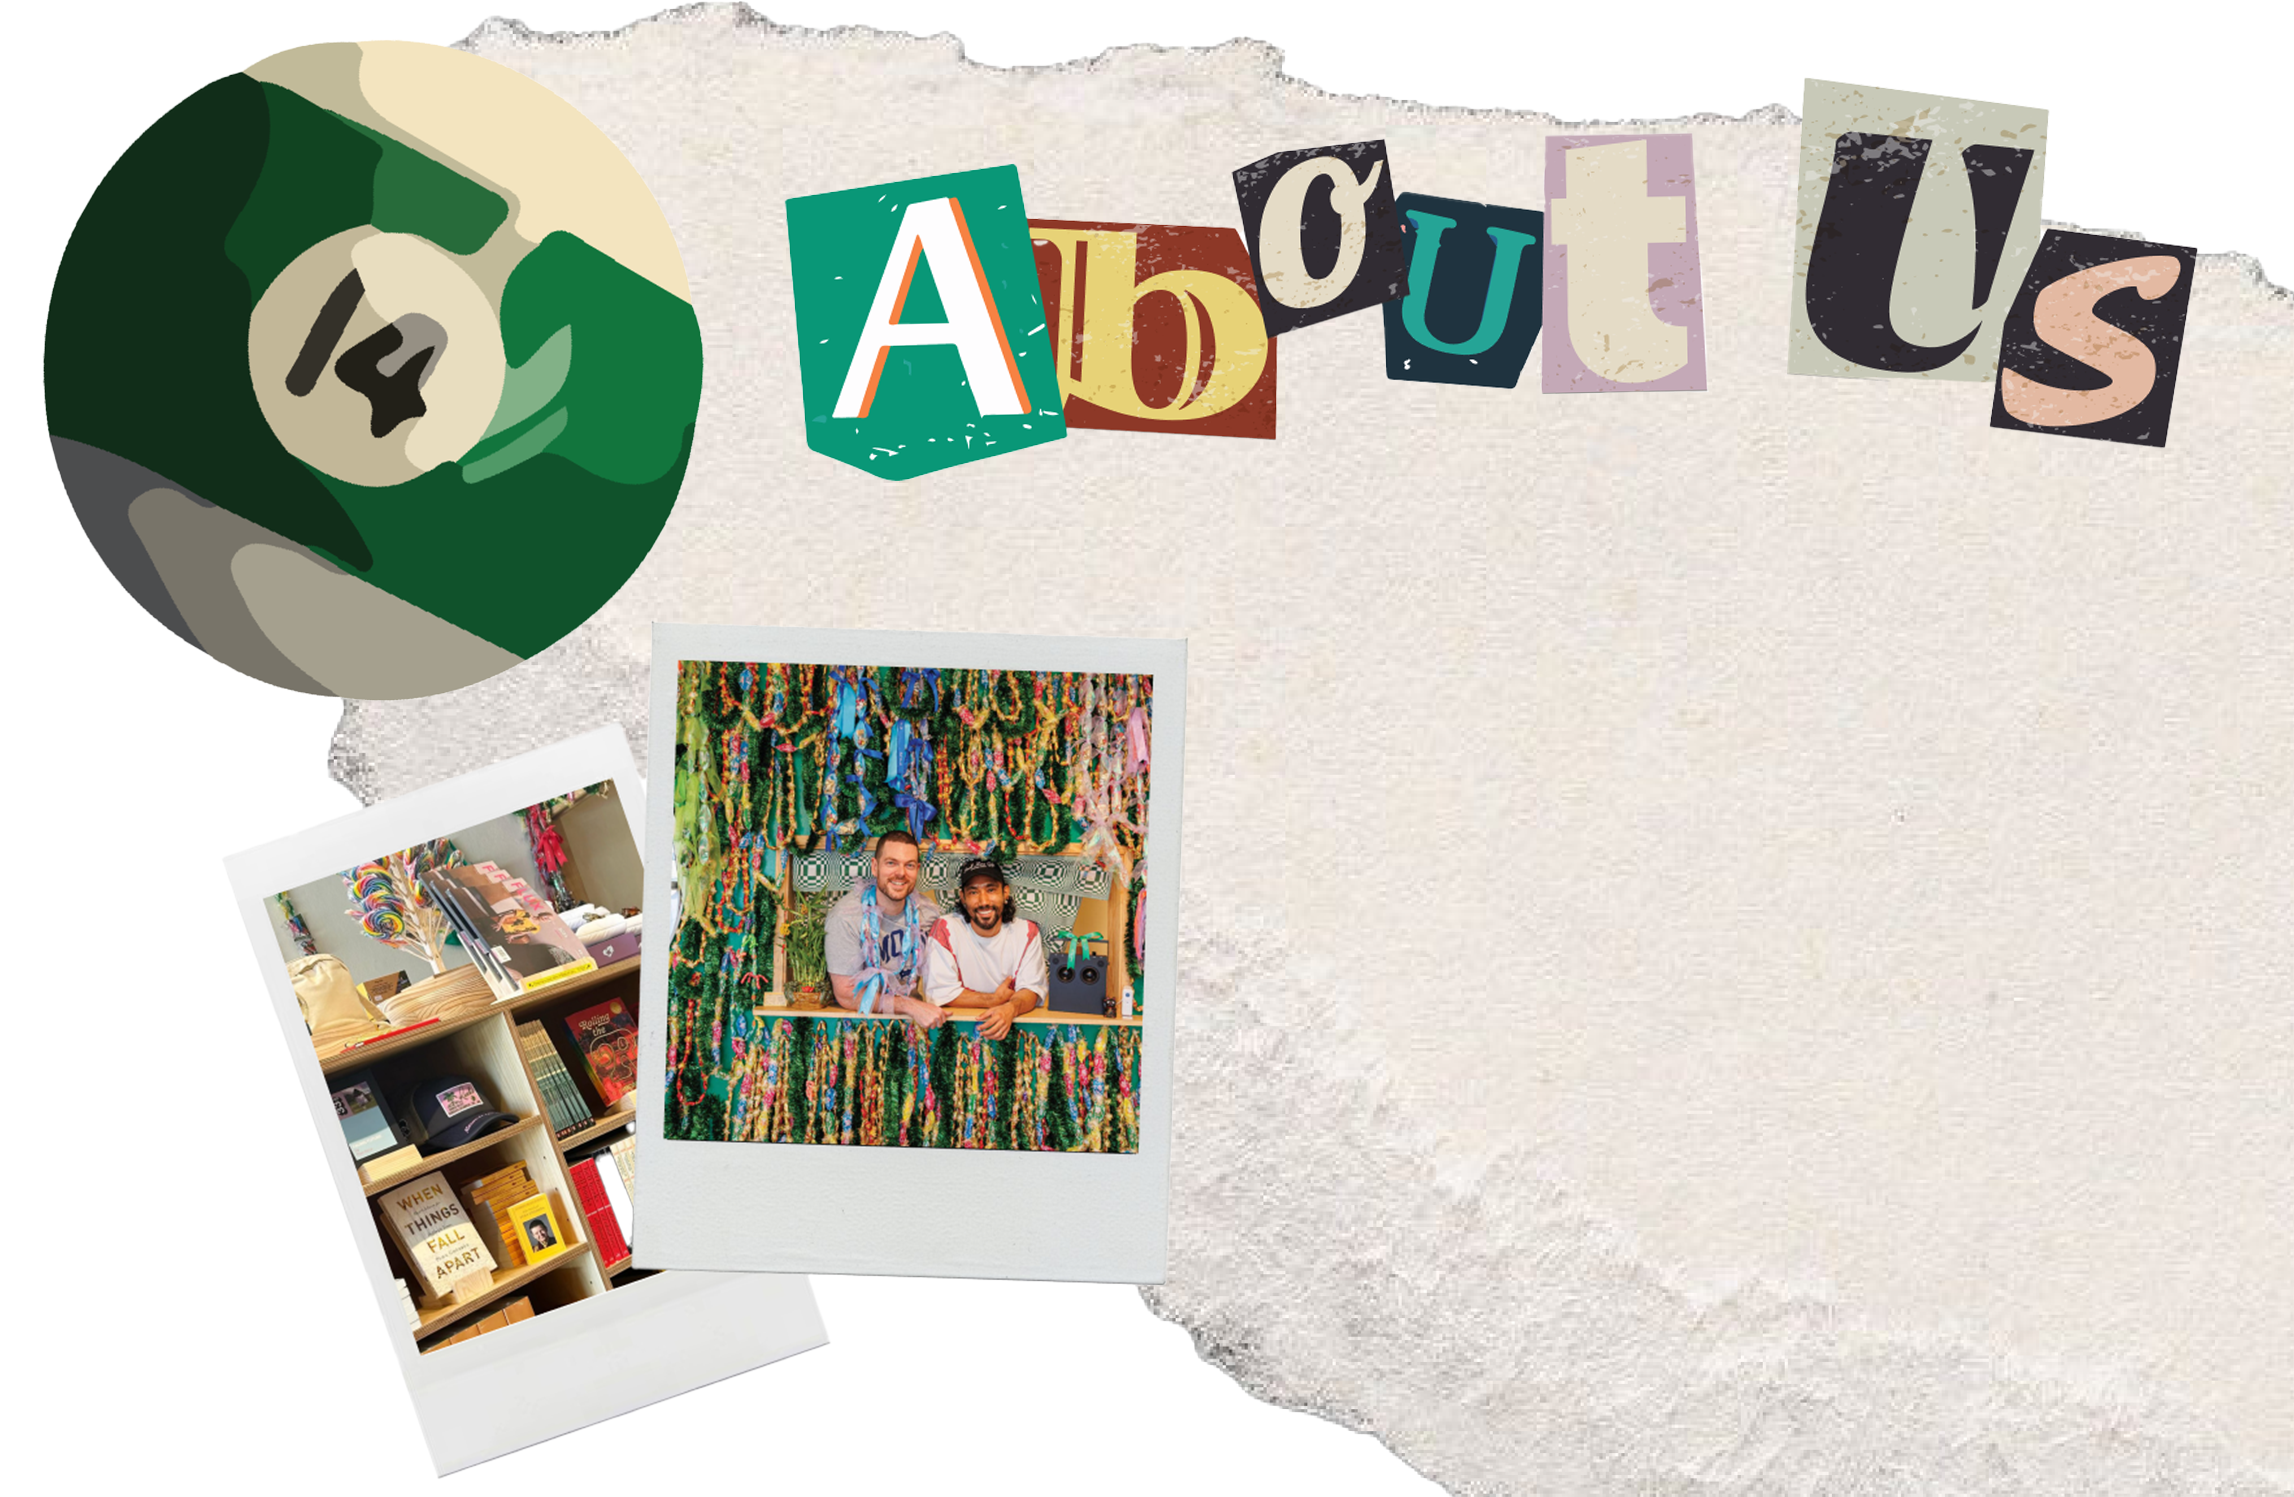
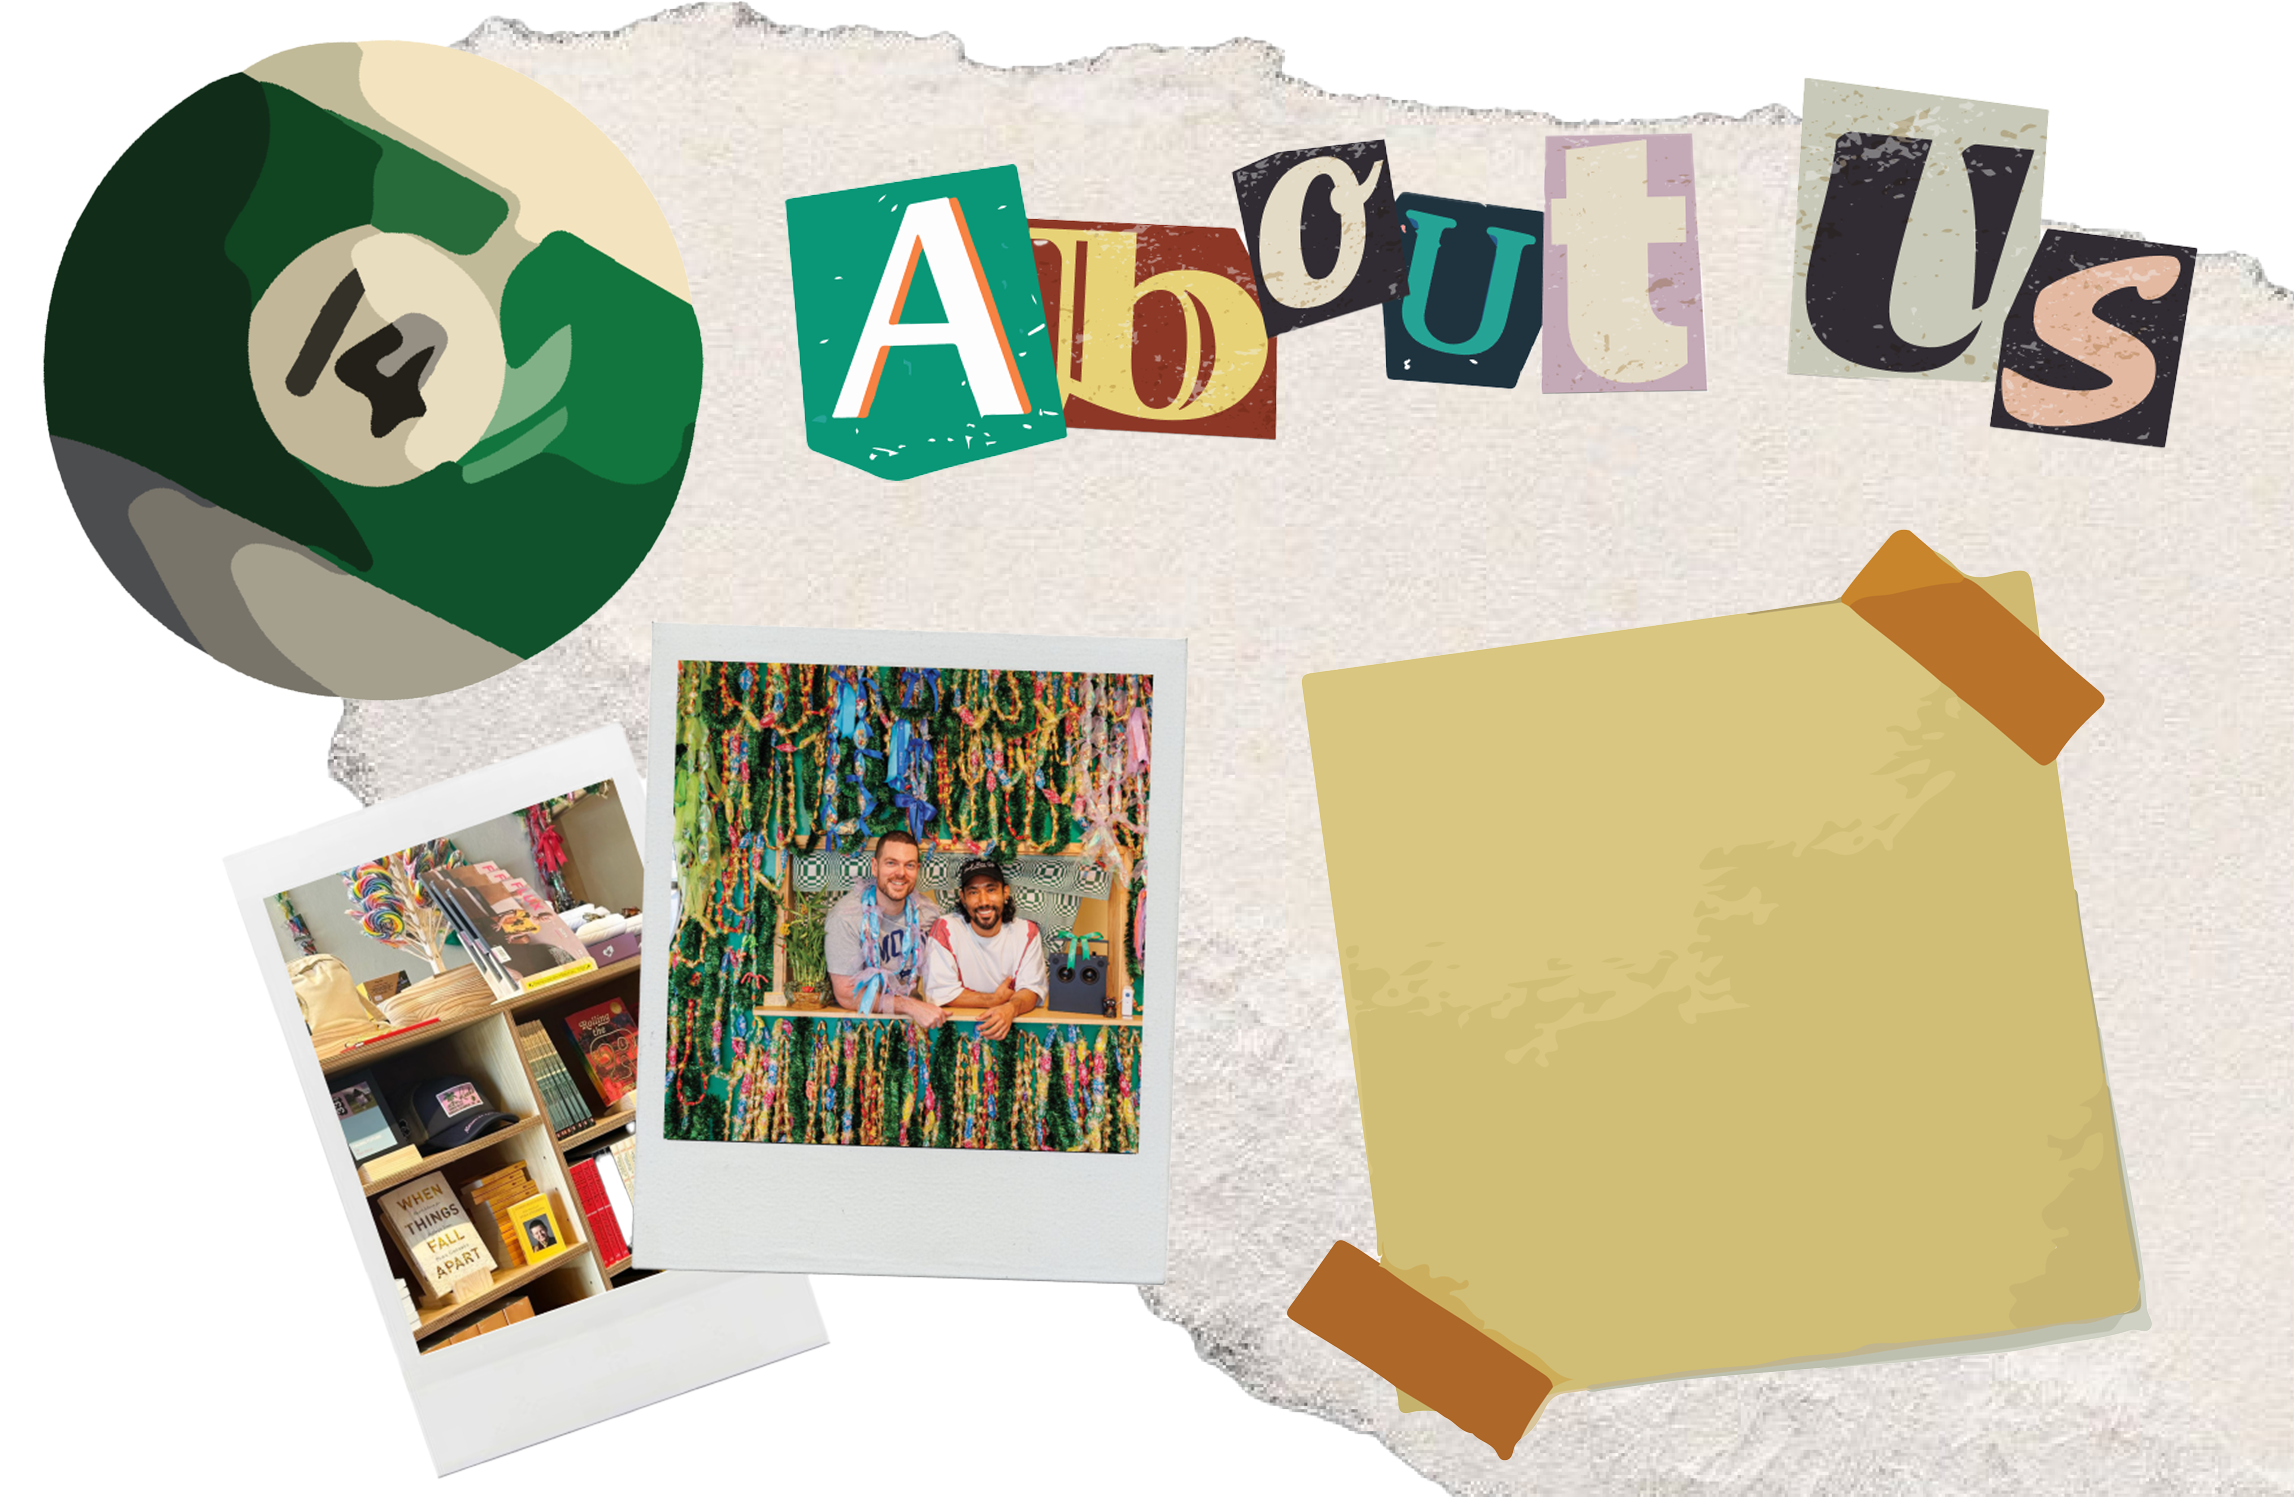
lotsa edits (not rlly)

Changed region(s): [[0.5571, 0.338, 0.9595, 0.9833]]

diff --git a/index.html b/index.html
@@ -33,35 +33,81 @@
     <main>
     
         <section class="main" id="section1">
-            <div class="container">
+            <div>
                 <img class="img-center" src="img/main-hero-img.png" alt="main-img" width="700" height="700">
             </div>
         </section>
                     
         <section class="about" id="section2">
-            <div class="container">
+            <div>
                 <img class="img-right" src="img/paper-about.png" alt="about content" width="1200" height="950">
-                <div class="textbox-right">
-                    <img class="img-right" src="img/stickynote.png" alt="stickynote text" width="400" height="400">
-                    <p class="about-text">Lorem ipsum, dolor sit amet consectetur adipisicing elit. Assumenda, sapiente.</p>
-                </div>
             </div>
         </section>
     
     
         <section class="merch" id="section3">
             <div class="container">
-                <img class="img-center" src="img/heading-merch.png" alt="heading-merch" width="600" height="150">
-                <img class="img-right" src="img/merch1.png" alt="merch1" width="350" height="350">
-                <img class="img-right" src="img/merch2.png" alt="merch2" width="350" height="350">
-                <img class="img-right" src="img/merch3.png" alt="merch3" width="380" height="380">
-                <img class="img-right" src="img/merch4.png" alt="merch4" width="350" height="350">
-                <img class="img-right" src="img/merch5.png" alt="merch5" width="390" height="390">
+                <img class="img-center head-merch" src="img/heading-merch.png" alt="heading-merch" width="600" height="150">
+                <div class="row demo">
+                    <img class="col-2 push-9" src="img/hat1.png" alt="merch1" width="300" height="300">
+                </div>
+                <div class="row demo">
+                    <img class="col-3 push-3" src="img/shirt1.png" alt="merch2" width="350" height="350">
+                </div>
+                <div class="row demo">
+                    <img class="col-3 push-9" src="img/bag1.png" alt="merch2" width="350" height="350">
+                </div>
+                <div class="row demo">
+                    <img class="col-3 push-3" src="img/hat2.png" alt="merch2" width="300" height="300">
+                </div>
+                <div class="row demo">
+                    <img class="col-3 push-9" src="img/shirt2.png" alt="merch2" width="300" height="300">
+                </div>
+                <div class="row demo">
+                    <img class="col-3 push-3" src="img/tote2.png" alt="merch2" width="300" height="300">
+                </div>
+                <div class="row demo">
+                    <img class="col-3 push-9" src="img/hat3.png" alt="merch2" width="300" height="300">
+                </div>
+                <div class="row centered demo">
+                    <img class="two-thirds centered" src="img/hat4.png" alt="merch2" width="300" height="300">
+                </div>
             </div>
         </section>
     
         <section class="what" id="section4">
-            <img class="head-what" src="img/@&_.png" alt="@&?" width="750" height="750">
+            <img class="img-center head-what" src="img/@&_.png" alt="@&?" width="750" height="750">
+            <div class="polaroid container">
+                <figure id="kewpie">
+                    <div class="card">
+                        <img src="img/pol-1.png" alt="polaroid" width="250" height="250">
+                        <figcaption>hello</figcaption>
+                    </div>
+                </figure>
+                <figure id="lei">
+                    <div class="card">
+                        <img src="img/pol-2.png" alt="polaroid" width="250" height="250">
+                        <figcaption>hello</figcaption>
+                    </div>
+                </figure>
+                <figure id="board">
+                    <div class="card">
+                        <img src="img/pol-3.png" alt="polaroid" width="250" height="250">
+                        <figcaption>hello</figcaption>
+                    </div>
+                </figure>
+                <figure id="bag">
+                    <div class="card">
+                        <img src="img/pol-4.png" alt="polaroid" width="250" height="250">
+                        <figcaption>hello</figcaption>
+                    </div>
+                </figure>  
+            </div>
+            <img class="img-center" src="img/follow-us.png" alt="follow-head" width="600" height="600">
+            <div class="socials">
+                <img src="img/logo.png" alt="logo" width="400" height="400">
+                <img src="img/paper-socials.png" alt="logo" width="400" height="400">
+            </div>
         </section>     
 
     </main> 

diff --git a/css/style.css b/css/style.css
@@ -239,9 +239,9 @@ html {
 
 /* CONTAINER */
 .container {
-    /* max-width: 1200px; */
-    /* margin-inline: auto; */
-    /* padding-inline:var(--unit-s); */
+    max-width: 1200px;
+    margin-inline: auto;
+    padding-inline:var(--unit-s);
 }
 
 /* GRID SYSTEM (12 COLUMN) */
@@ -320,9 +320,9 @@ html {
 
 /* FOR DEMO PURPOSES ONLY */
 .row.demo > * {
-    background-color: var(--color-light-blue);
+    /* background-color: var(--color-light-blue); */
     text-align: center;
-    padding: var(--unit-s);
+    /* padding: var(--unit-m); */
 }
 
 /* SITE STRUCTURE */
@@ -520,6 +520,7 @@ section {
 /* CARDS */
 
 .card {
+    background-color: #fff;
     border: var(--color-border) 1px solid;
     display: inline-block;
     padding: var(--unit-s);
@@ -794,17 +795,14 @@ section:has(observe-me){
     background-color: var(--color-background-about);
 }
 
-.textbox-right{
-    border: 1px solid red;
+.about-content{
+    position:relative;
 }
 
-.about-text{
-    /* border: 1px solid red; */
-    display: block;
-    margin-left: auto;
-    margin-right: auto;
-    padding: 2em;
+.about-content img, p{
+    position: relative;
 }
+
 
 /* --MERCH FOLDER-- */
 .merch {
@@ -812,39 +810,11 @@ section:has(observe-me){
 }
 
 .head-merch,
-.head-what{
-    /* border: 1px solid red; */
-    display: block;
-    margin-left: auto;
-    margin-right: auto;
-    padding: 2em;
+.head-what {
+    padding: 3em 0 3em 0;
 }
 
-.merch1,
-.merch3,
-.merch5 {
-    /* border: 1px solid red; */
-    display: block;
-    height: auto;
-    margin-right: auto;
-    padding: 2em;
-    /* transform: translate(60%, 10%); */
-}
-.merch2,
-.merch4 {
-    /* border: 1px solid red; */
-    display: block;
-    height: auto;
-    margin-right: auto;
-    padding: 2em;
-    /* transform: translate(-60%, 10%); */
-}
 
-/* --WHAT FOLDER-- */
-.what {
-    background-color: var(--color-background-bottom);
-    height: 200svh;
-}
 
 /* SKG Header */
 
@@ -908,3 +878,31 @@ section:has(observe-me){
     margin-left: 50px;
   }
 
+/* POLAROID IMAGES */
+
+.polaroid{
+    display: grid;
+    justify-content: center;
+    gap: var(--unit-s);
+}
+
+#kewpie{
+    transform: rotate(-5deg) translate(-50px, 10px);
+}
+
+#board{
+    transform: rotate(-5deg) translate(-50px, -180px);
+}
+
+#lei{
+    transform: rotate(5deg) translate(100px, -120px);
+}
+
+#bag{
+    transform: rotate(5deg) translate(100px, -240px);
+}
+
+.socials {
+    display: inline-flex;
+    justify-content: center;
+}
